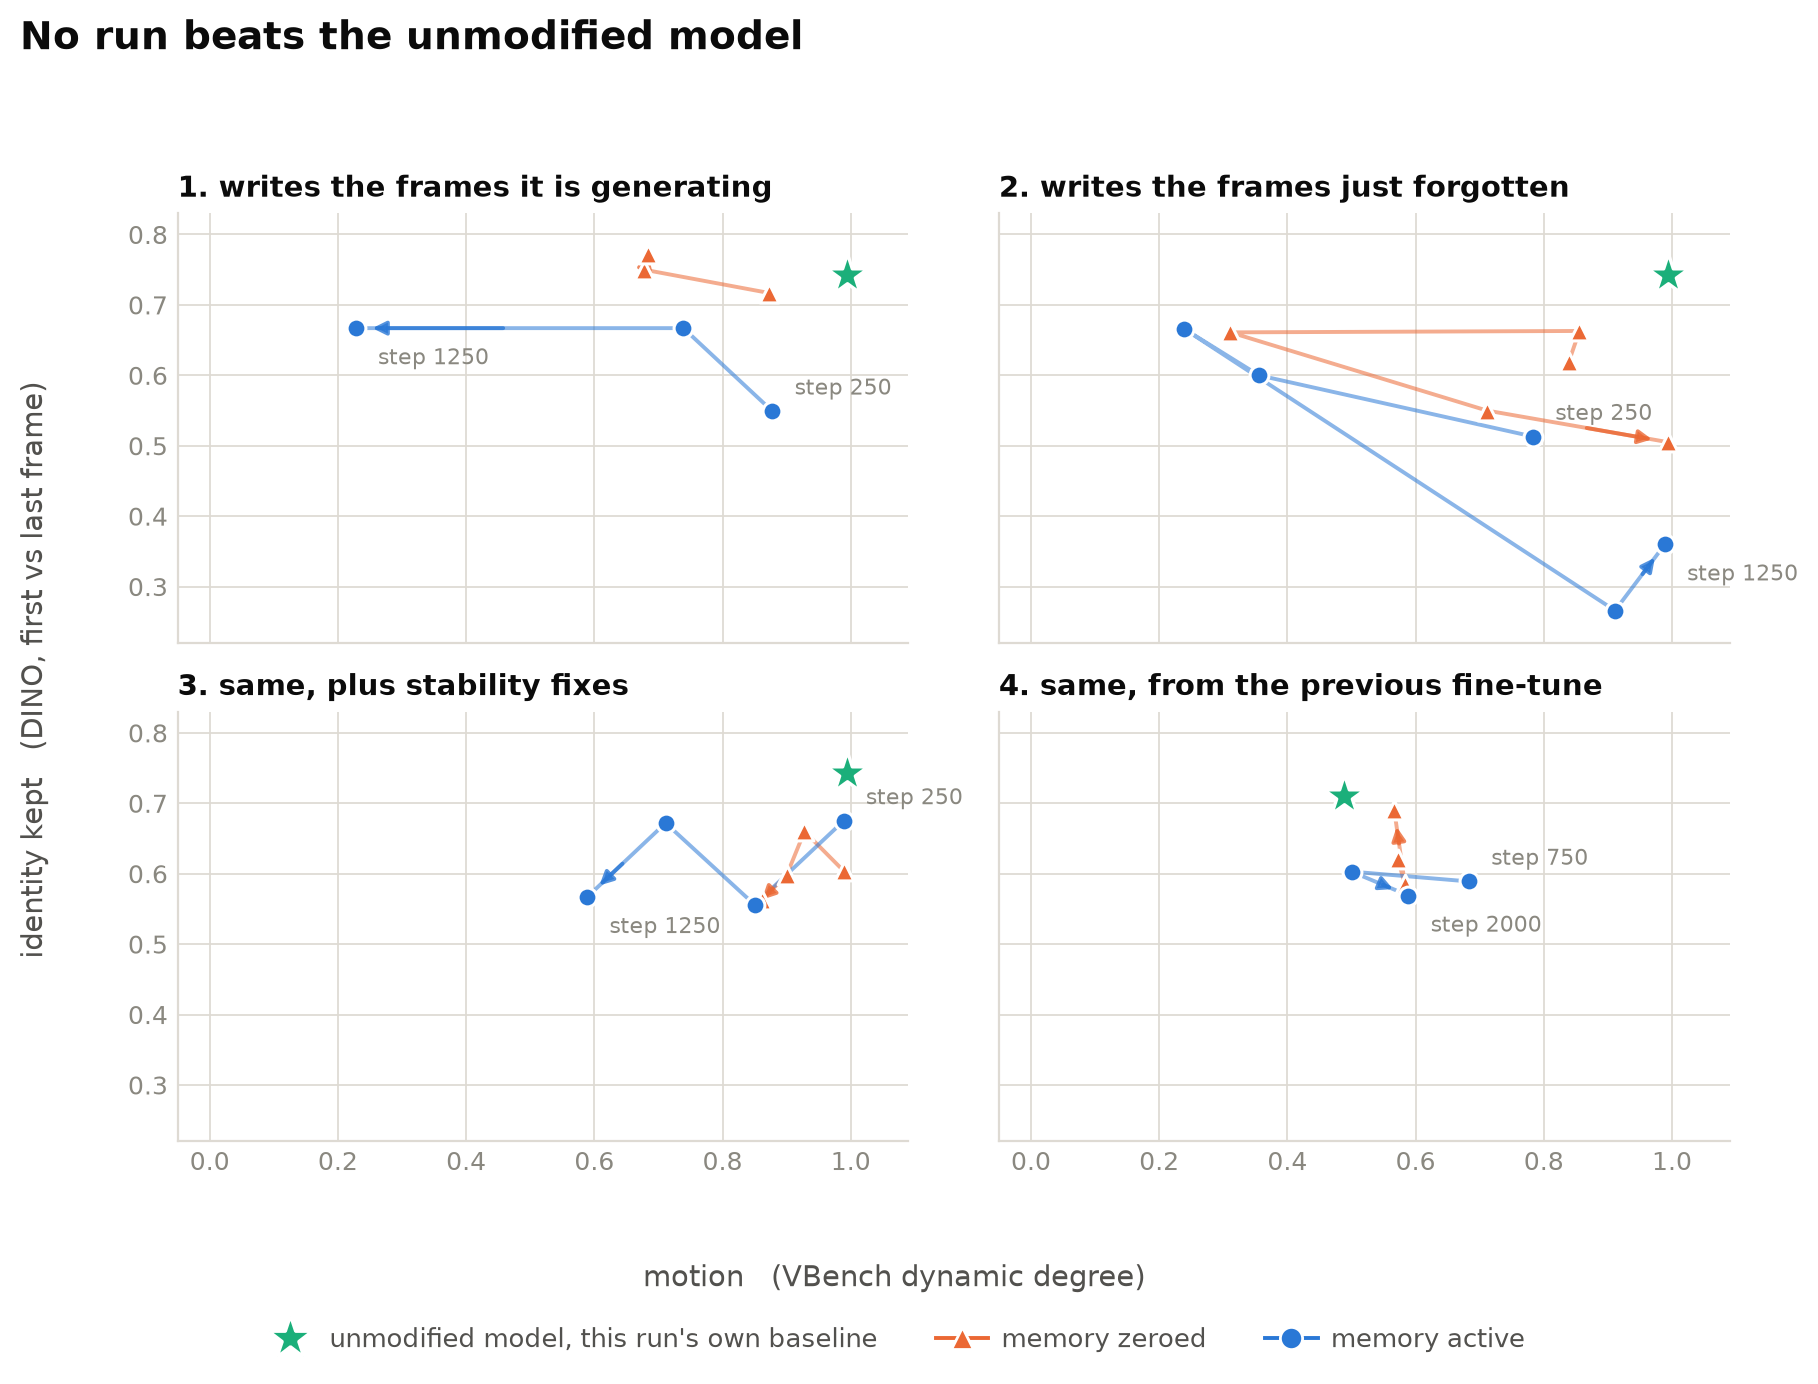
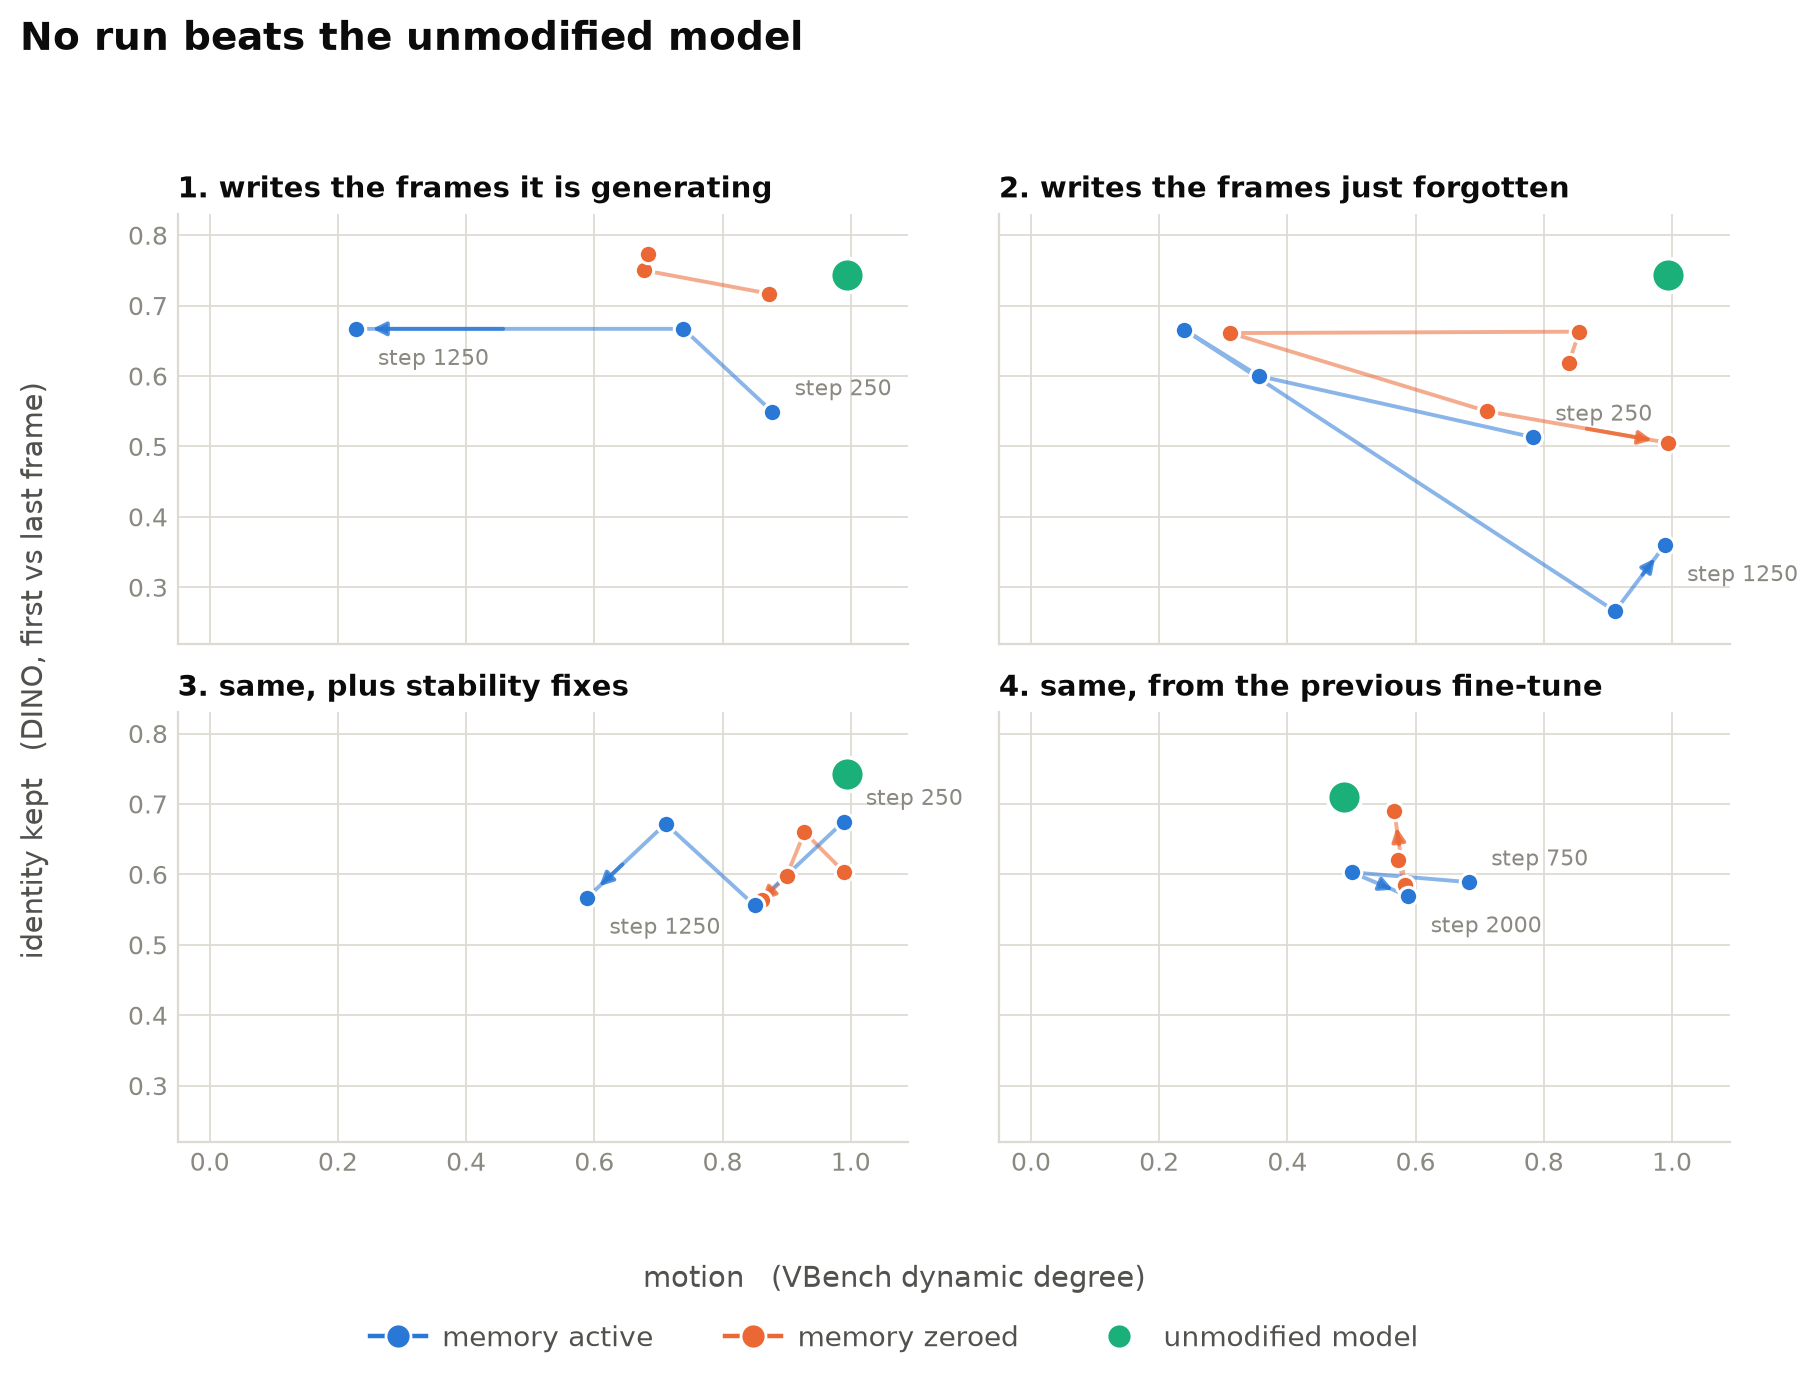
style: one marker shape in the results figure, colour carries the series

diff --git a/reference/runs/make_figure.py b/reference/runs/make_figure.py
@@ -38,8 +38,9 @@ RUNS = [("c1_cotrain", "1. writes the frames it is generating"),
         ("c3_stable", "3. same, plus stability fixes"),
         ("l1_longlive", "4. same, from the previous fine-tune")]
 KEEP = re.compile(r"^eval(\d+)(_sink1)?$")      # plain series only: no _ema, no _480, no _msc05
+# One shape throughout: three round dots, told apart by colour. Mixing marker shapes
+# made the legend something to decode before the chart could be read.
 C = {"memon": "#2a78d6", "memzero": "#eb6834", "stock": "#1baf7a"}
-M = {"memon": "o", "memzero": "^", "stock": "*"}
 INK, INK2, MUTED, LINE = "#0b0b0b", "#52514e", "#8a8880", "#dedad3"
 
 
@@ -78,11 +79,11 @@ for ax, (run, label) in zip(axes.ravel(), RUNS):
         xs = [d[arm] for _, _, d in pts]
         ys = [i[arm] for _, i, _ in pts]
         ax.plot(xs, ys, "-", color=C[arm], lw=1.4, alpha=.55, zorder=2)
-        ax.scatter(xs, ys, s=46, marker=M[arm], c=C[arm], linewidths=1.1,
+        ax.scatter(xs, ys, s=44, c=C[arm], linewidths=1.1,
                    edgecolors="#ffffff", zorder=3)
     sx, sy = pts[0][2]["stock"], pts[0][1]["stock"]
-    ax.scatter([sx], [sy], s=240, marker=M["stock"], c=C["stock"],
-               linewidths=1.2, edgecolors="#ffffff", zorder=4)
+    ax.scatter([sx], [sy], s=150, c=C["stock"],
+               linewidths=1.4, edgecolors="#ffffff", zorder=4)
     # arrowhead on the last leg, so the direction of training is unambiguous
     for arm in ("memzero", "memon"):
         (x0, y0), (x1, y1) = ((pts[-2][2][arm], pts[-2][1][arm]), (pts[-1][2][arm], pts[-1][1][arm]))
@@ -111,15 +112,16 @@ fig.supylabel("identity kept   (DINO, first vs last frame)", fontsize=10.5, colo
 # README paragraph next to the figure.
 fig.suptitle("No run beats the unmodified model",
              fontsize=14, color=INK, fontweight="bold", x=0.035, ha="left", y=0.965)
-fig.legend(handles=[
-    Line2D([], [], marker=M["stock"], color="none", markerfacecolor=C["stock"],
-           markeredgecolor="#ffffff", markersize=16, label="unmodified model, this run's own baseline"),
-    Line2D([], [], marker=M["memzero"], color=C["memzero"], markerfacecolor=C["memzero"],
-           markeredgecolor="#ffffff", markersize=8, lw=1.4, label="memory zeroed"),
-    Line2D([], [], marker=M["memon"], color=C["memon"], markerfacecolor=C["memon"],
-           markeredgecolor="#ffffff", markersize=8, lw=1.4, label="memory active")],
-    loc="lower center", ncol=3, frameon=False, fontsize=9.5, labelcolor=INK2,
-    handletextpad=.5, columnspacing=2.2, bbox_to_anchor=(0.5, -0.005))
+def swatch(colour, text, line=True):
+    return Line2D([], [], marker="o", color=colour if line else "none", markerfacecolor=colour,
+                  markeredgecolor="#ffffff", markersize=9, lw=1.6, label=text)
+
+
+fig.legend(handles=[swatch(C["memon"], "memory active"),
+                    swatch(C["memzero"], "memory zeroed"),
+                    swatch(C["stock"], "unmodified model", line=False)],
+           loc="lower center", ncol=3, frameon=False, fontsize=10, labelcolor=INK2,
+           handletextpad=.6, columnspacing=2.6, bbox_to_anchor=(0.5, -0.005))
 
 fig.tight_layout(rect=[0.045, 0.075, 1, 0.925])
 fig.savefig("assets/motion_identity.png", facecolor="#ffffff", bbox_inches="tight")
